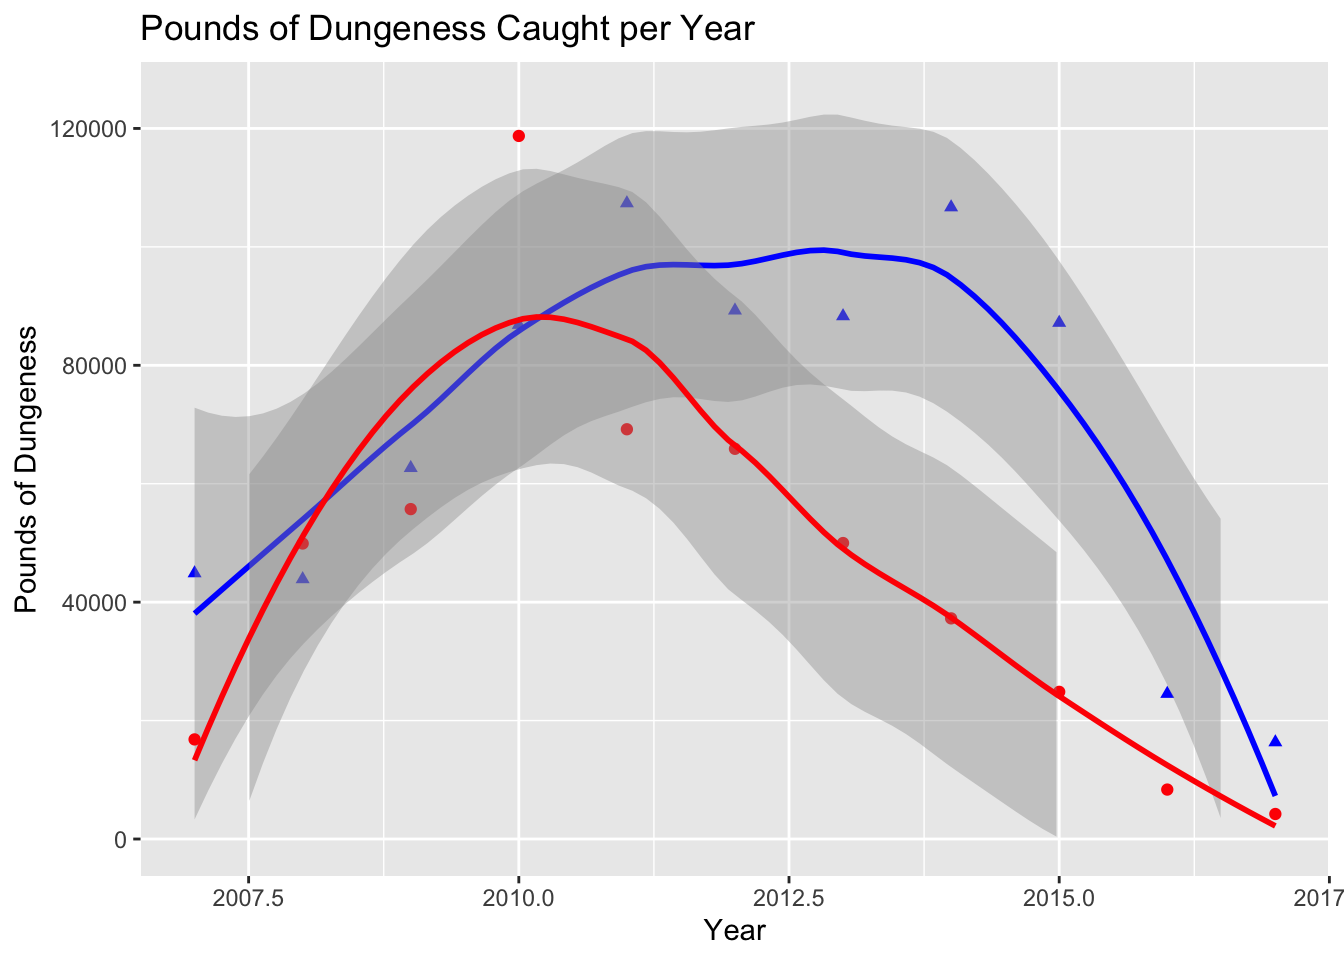
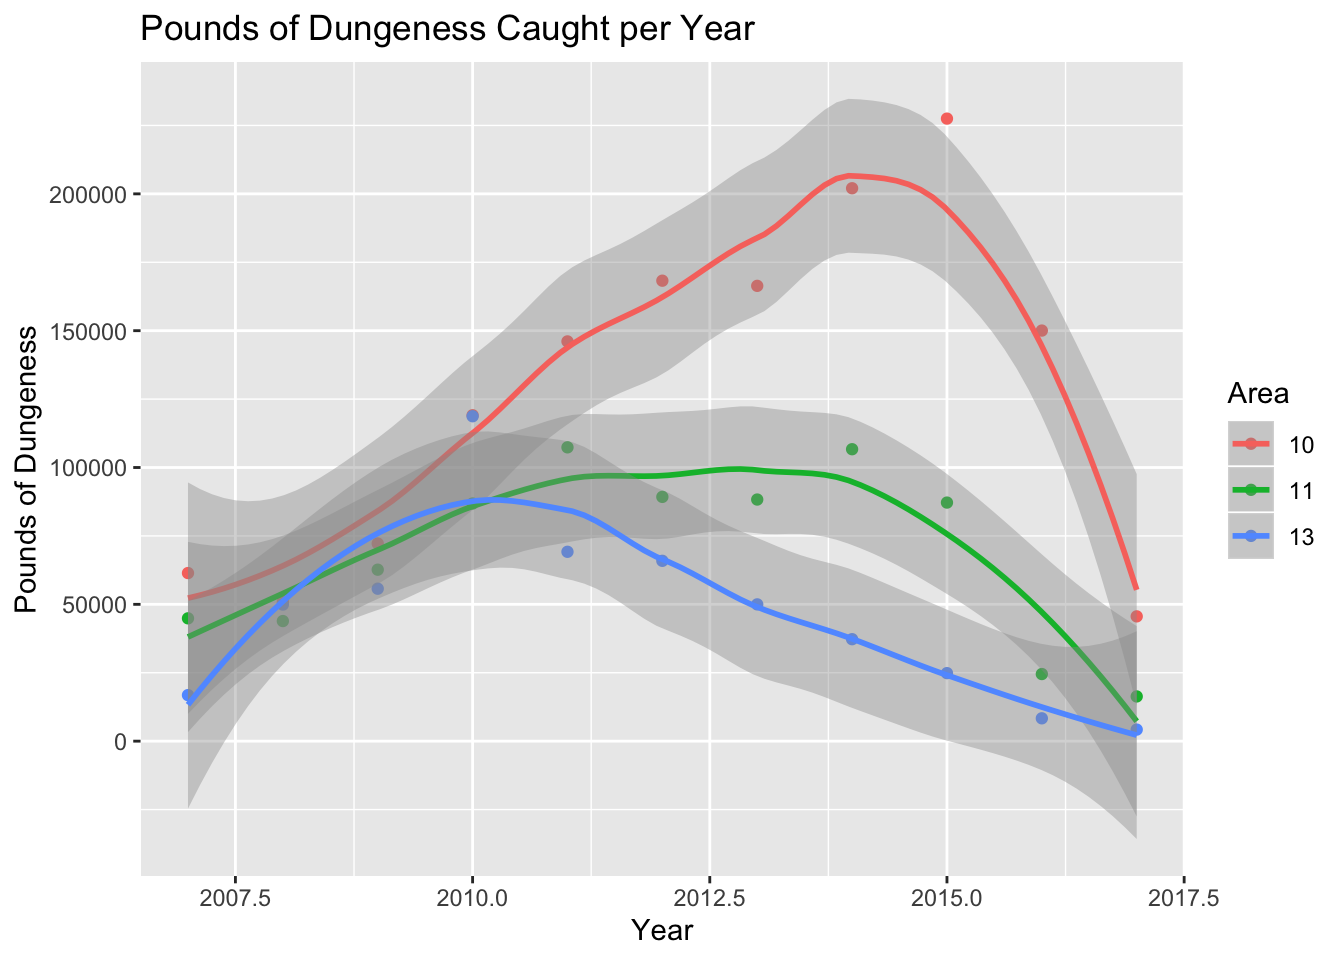
Renamed table cols, gathered data, created new main plot

diff --git a/Scripts/290_data.html b/Scripts/290_data.html
@@ -227,6 +227,34 @@ summary {
 ## 4 2010           119099            86842           118734
 ## 5 2011           146080           107368            69200
 ## 6 2012           168269            89262            65899</code></pre>
+</div>
+<div id="renaming-columns" class="section level1">
+<h1>Renaming columns</h1>
+<pre class="r"><code>DC_catch_renamed &lt;- DC_catch %&gt;% rename(&quot;10&quot; = lbs_dungeness.10, 
+                                     &quot;11&quot; = lbs_dungeness.11, &quot;13&quot; = lbs_dungeness.13)</code></pre>
+<p>Columns have now been renamed by only their marine area in order to make gathering the data simpler.</p>
+<pre class="r"><code>head(DC_catch_renamed)</code></pre>
+<pre><code>##   year     10     11     13
+## 1 2007  61429  44884  16822
+## 2 2008  50941  43887  49906
+## 3 2009  72231  62661  55714
+## 4 2010 119099  86842 118734
+## 5 2011 146080 107368  69200
+## 6 2012 168269  89262  65899</code></pre>
+</div>
+<div id="gathering-data" class="section level1">
+<h1>Gathering data</h1>
+<pre class="r"><code>DC_catch_tidy &lt;- DC_catch_renamed %&gt;% 
+  gather(`10`, `11`, `13`, key = &quot;area&quot;, value = &quot;lbs&quot;)</code></pre>
+<p>Each observation now has seperate columns for area and pounds caught.</p>
+<pre class="r"><code>head(DC_catch_tidy)</code></pre>
+<pre><code>##   year area    lbs
+## 1 2007   10  61429
+## 2 2008   10  50941
+## 3 2009   10  72231
+## 4 2010   10 119099
+## 5 2011   10 146080
+## 6 2012   10 168269</code></pre>
 <hr />
 <div id="plot-of-main-data" class="section level2">
 <h2>Plot of main data</h2>
